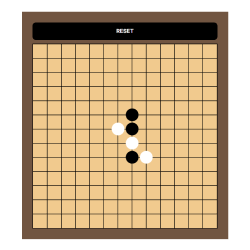
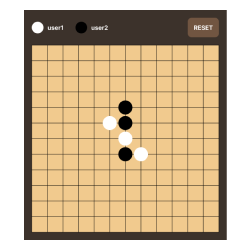
오목 - 스타일 수정

diff --git a/src/component/omok/board/item/board-item.style.ts b/src/component/omok/board/item/board-item.style.ts
@@ -2,27 +2,64 @@ import styled from 'styled-components'
 
 export namespace BoardItemStyle {
     export const Container = styled.div`
-        width: 40px;
-        height: 40px;
-        position: relative;
-        display: grid;
-        align-items: center;
-        justify-items: center;
+        ${({ theme }) => `
+            position: relative;
+            display: grid;
+            align-items: center;
+            justify-items: center;
+
+            ${theme.ratio.size({
+                web: `
+                    width: 40px;
+                    height: 40px;
+                `,
+                tablet: `
+                    width: 40px;
+                    height: 40px;
+                `,
+                mobile: `
+                    width: 35px;
+                    height: 35px;
+                `
+            })}
+        `}
     `
 
     export const VerticalLine = styled.div`
         ${({ theme }) => `
-            height: 80px;
             position: absolute;
             border: 1px solid ${theme.color.black};
+
+            ${theme.ratio.size({
+                web: `
+                    height: 80px;
+                `,
+                tablet: `
+                    height: 80px;
+                `,
+                mobile: `
+                    height: 70px;
+                `
+            })}
         `}
     `
 
     export const HorizontalLine = styled.div`
         ${({ theme }) => `
-            width: 80px;
             position: absolute;
             border: 1px solid ${theme.color.black};
+
+            ${theme.ratio.size({
+                web: `
+                    width: 80px;
+                `,
+                tablet: `
+                    width: 80px;
+                `,
+                mobile: `
+                    width: 70px;
+                `
+            })}
         `}
     `
 
@@ -35,8 +72,8 @@ export namespace BoardItemStyle {
             z-index: 1;
 
             :hover {
-                background-color: ${theme.color.gray};
-                border-radius: 8px;
+                background-color: ${theme.color.brown};
+                border-radius: 50%;
             }
         `}
     `

diff --git a/src/component/omok/board/board.style.ts b/src/component/omok/board/board.style.ts
@@ -5,11 +5,26 @@ export namespace BoardStyle {
         ${({ theme }) => `
             position: relative;
             display: grid;
-            grid-template-rows: repeat(12, 40px);
-            grid-template-columns: repeat(12, 40px);
-            background-color: ${theme.color.beige};
-            border: 2px solid ${theme.color.black};
-            padding: 20px;
+            background-color: ${theme.color.lightbrown};
+            border: 1px solid ${theme.color.black};
+
+            ${theme.ratio.size({
+                web: `
+                    grid-template-rows: repeat(11, 40px);
+                    grid-template-columns: repeat(11, 40px);
+                    padding: 20px;
+                `,
+                tablet: `
+                    grid-template-rows: repeat(11, 40px);
+                    grid-template-columns: repeat(11, 40px);
+                    padding: 20px;
+                `,
+                mobile: `
+                    grid-template-rows: repeat(11, 35px);
+                    grid-template-columns: repeat(11, 35px);
+                    padding: 17.5px;
+                `
+            })}
         `}
     `
 }

diff --git a/src/component/omok/board/board.view.tsx b/src/component/omok/board/board.view.tsx
@@ -1,17 +1,25 @@
 import React from 'react'
 import { BoardStyle } from './board.style'
 import { BoardItem } from './item/board-item.view'
+import { useSelector } from 'react-redux'
+import { OmokConditionEnum } from '@/redux/omok/omok.enum'
+import { Result } from '../../common/result/result.view'
 
 export function Board() {
+    const omok = useSelector((state: any) => state.omok)
+
     return (
         <BoardStyle.Container>
-            {[...Array(12)].map((num, rowIndex) => (
+            {[...Array(11)].map((num, rowIndex) => (
                 <React.Fragment key={rowIndex}>
-                    {[...Array(12)].map((num, colIndex) => (
+                    {[...Array(11)].map((num, colIndex) => (
                         <BoardItem key={colIndex} x={colIndex} y={rowIndex} />
                     ))}
                 </React.Fragment>
             ))}
+
+            {omok.condition === OmokConditionEnum.USER1 && <Result message={'user1 WIN!'} />}
+            {omok.condition === OmokConditionEnum.USER2 && <Result message={'user2 WIN!'} />}
         </BoardStyle.Container>
     )
 }

diff --git a/src/page/omok/omok.view.tsx b/src/page/omok/omok.view.tsx
@@ -1,18 +1,20 @@
-import { Home } from '@/src/component/common/home/home.view'
 import { OmokStyle } from './omok.style'
 import { Board } from '@/src/component/omok/board/board.view'
 import { Button } from '@/src/component/omok/button/button.view'
+import { Layout } from '@/src/component/common/layout/layout.view'
+import { User } from '@/src/component/omok/user/user.view'
 
 export function Omok() {
     return (
-        <OmokStyle.Container>
-            <Home />
-            <OmokStyle.SafetyContainer>
+        <Layout>
+            <OmokStyle.Container>
                 <OmokStyle.TopContainer>
+                    <User />
                     <Button name={'RESET'} clickCallback={() => {}} />
                 </OmokStyle.TopContainer>
+
                 <Board />
-            </OmokStyle.SafetyContainer>
-        </OmokStyle.Container>
+            </OmokStyle.Container>
+        </Layout>
     )
 }

diff --git a/src/component/omok/stone/stone.style.ts b/src/component/omok/stone/stone.style.ts
@@ -3,11 +3,24 @@ import styled from 'styled-components'
 export namespace StoneStyle {
     export const Container = styled.div<{ user: number }>`
         ${({ theme, user }) => `
-            width: 36px;
-            height: 36px;
-            background-color: ${user === 1 ? theme.color.black : theme.color.white};
-            border-radius: 18px;
+            background-color: ${user === 1 ? theme.color.white : theme.color.black};
+            border-radius: 50%;
             z-index: 1;
+
+            ${theme.ratio.size({
+                web: `
+                    width: 36px;
+                    height: 36px;
+                `,
+                tablet: `
+                    width: 36px;
+                    height: 36px;
+                `,
+                mobile: `
+                    width: 30px;
+                    height: 30px;
+                `
+            })}
         `}
     `
 }

diff --git a/src/component/omok/user/user.style.ts b/src/component/omok/user/user.style.ts
@@ -1,0 +1,32 @@
+import styled from 'styled-components'
+
+export namespace UserStyle {
+    export const Container = styled.div`
+        display: grid;
+        grid-template-columns: repeat(2, fit-content(200px));
+        gap: 30px;
+    `
+
+    export const SafetyContainer = styled.div`
+        display: grid;
+        align-items: center;
+        grid-template-columns: 30px auto;
+        gap: 10px;
+    `
+
+    export const Stone = styled.div<{ user: number }>`
+        ${({ theme, user }) => `
+            width: 30px;
+            height: 30px;
+            background-color: ${user === 1 ? theme.color.white : theme.color.black};
+            border-radius: 50%;
+        `}
+    `
+
+    export const Text = styled.p`
+        ${({ theme }) => `
+            ${theme.font.title3};
+            color: ${theme.color.white};
+        `}
+    `
+}

diff --git a/src/page/omok/omok.style.ts b/src/page/omok/omok.style.ts
@@ -2,20 +2,17 @@ import styled from 'styled-components'
 
 export namespace OmokStyle {
     export const Container = styled.div`
-        display: grid;
-        justify-items: center;
-        padding: 20px;
-    `
-
-    export const SafetyContainer = styled.div`
         ${({ theme }) => `
-            position: relative;
             display: grid;
-            gap: 10px;
-            padding: 30px;
-            background-color: ${theme.color.brown};
+            gap: 20px;
+            padding: 20px;
+            background-color: ${theme.color.darkbrown};
         `}
     `
 
-    export const TopContainer = styled.div``
+    export const TopContainer = styled.div`
+        display: grid;
+        grid-template-columns: repeat(2, fit-content(200px));
+        justify-content: space-between;
+    `
 }

diff --git a/src/component/omok/button/button.style.ts b/src/component/omok/button/button.style.ts
@@ -3,13 +3,17 @@ import styled from 'styled-components'
 export namespace ButtonStyle {
     export const Container = styled.div`
         ${({ theme }) => `
-            background-color: ${theme.color.black};
+            background-color: ${theme.color.brown};
             border-radius: 10px;
-            ${theme.font.title3};
-            text-align: center;
-            color: ${theme.color.white};
             padding: 15px;
             cursor: pointer;
+        `}
+    `
+
+    export const Text = styled.p`
+        ${({ theme }) => `
+            ${theme.font.title3};
+            color: ${theme.color.white};
         `}
     `
 }

diff --git a/src/component/omok/user/user.view.tsx b/src/component/omok/user/user.view.tsx
@@ -1,0 +1,16 @@
+import { UserStyle } from './user.style'
+
+export function User() {
+    return (
+        <UserStyle.Container>
+            <UserStyle.SafetyContainer>
+                <UserStyle.Stone user={1} />
+                <UserStyle.Text>user1</UserStyle.Text>
+            </UserStyle.SafetyContainer>
+            <UserStyle.SafetyContainer>
+                <UserStyle.Stone user={2} />
+                <UserStyle.Text>user2</UserStyle.Text>
+            </UserStyle.SafetyContainer>
+        </UserStyle.Container>
+    )
+}

diff --git a/src/component/omok/button/button.view.tsx b/src/component/omok/button/button.view.tsx
@@ -1,5 +1,9 @@
 import { ButtonStyle } from './button.style'
 
 export function Button({ name, clickCallback }: { name: string; clickCallback: () => void }) {
-    return <ButtonStyle.Container onClick={clickCallback}>{name}</ButtonStyle.Container>
+    return (
+        <ButtonStyle.Container onClick={clickCallback}>
+            <ButtonStyle.Text>{name}</ButtonStyle.Text>
+        </ButtonStyle.Container>
+    )
 }

diff --git a/src/component/common/result/result.style.ts b/src/component/common/result/result.style.ts
@@ -17,6 +17,7 @@ export namespace ResultStyle {
             background-color: ${theme.color.white};
             border: 5px solid ${theme.color.red};
             padding: 10px;
+            z-index: 2;
         `}
     `
 

diff --git a/redux/omok/omok.enum.ts b/redux/omok/omok.enum.ts
@@ -1,4 +1,5 @@
 export enum OmokConditionEnum {
     RUNNING = 'RUNNING',
-    FINISH = 'FINISH'
+    USER1 = 'USER1',
+    USER2 = 'USER2'
 }
